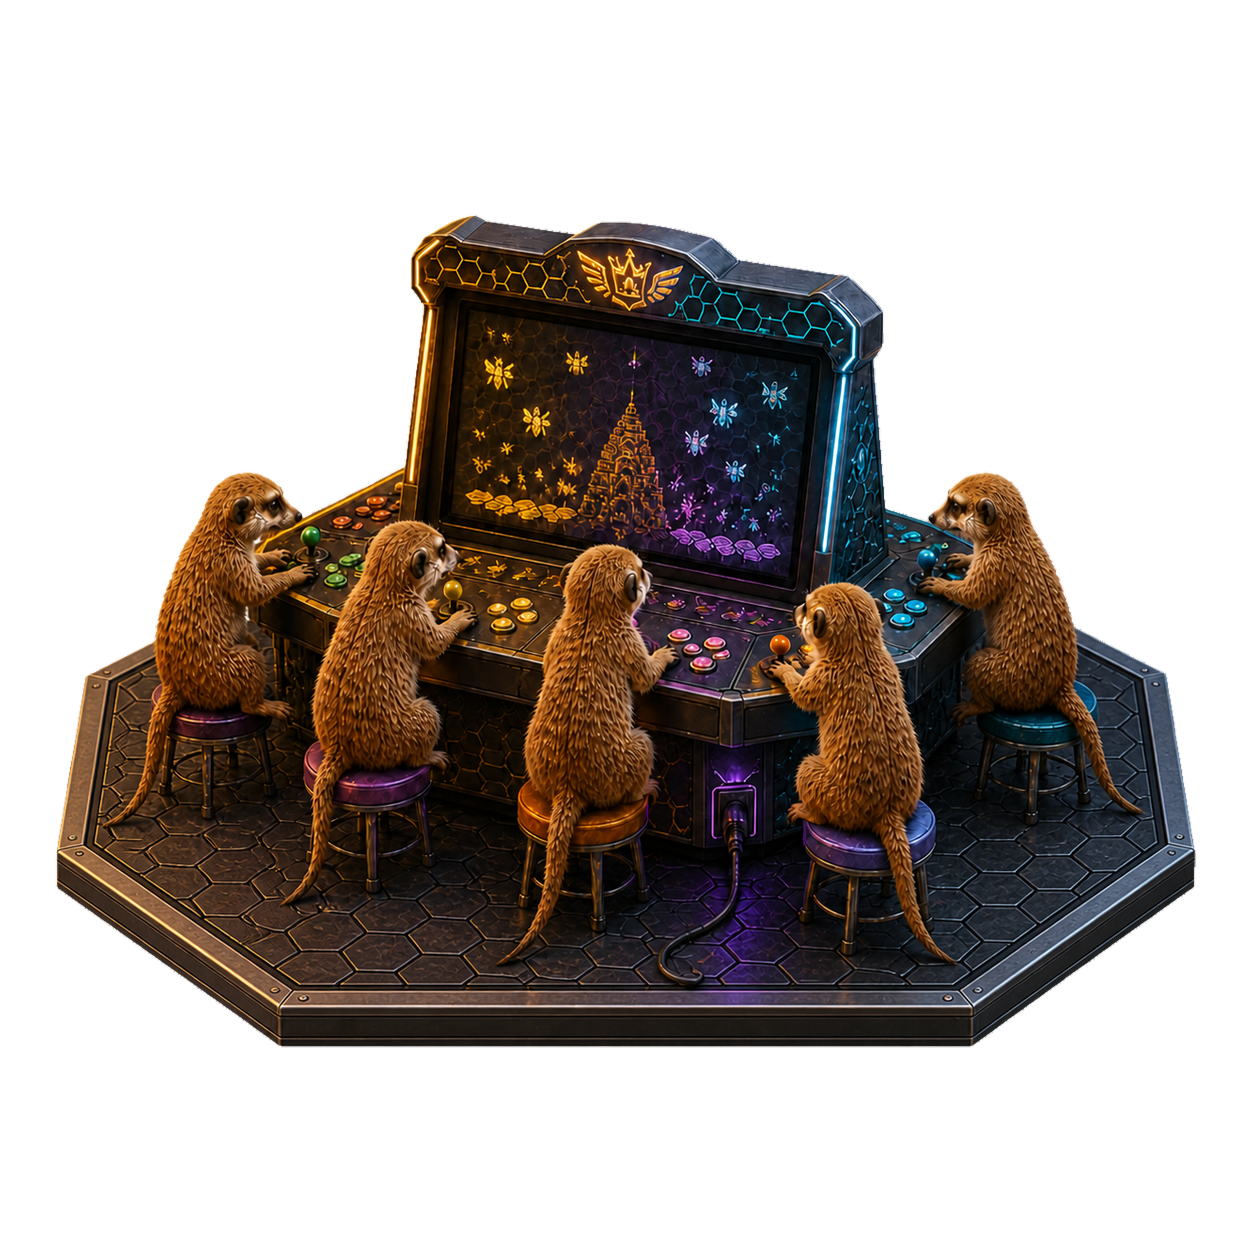
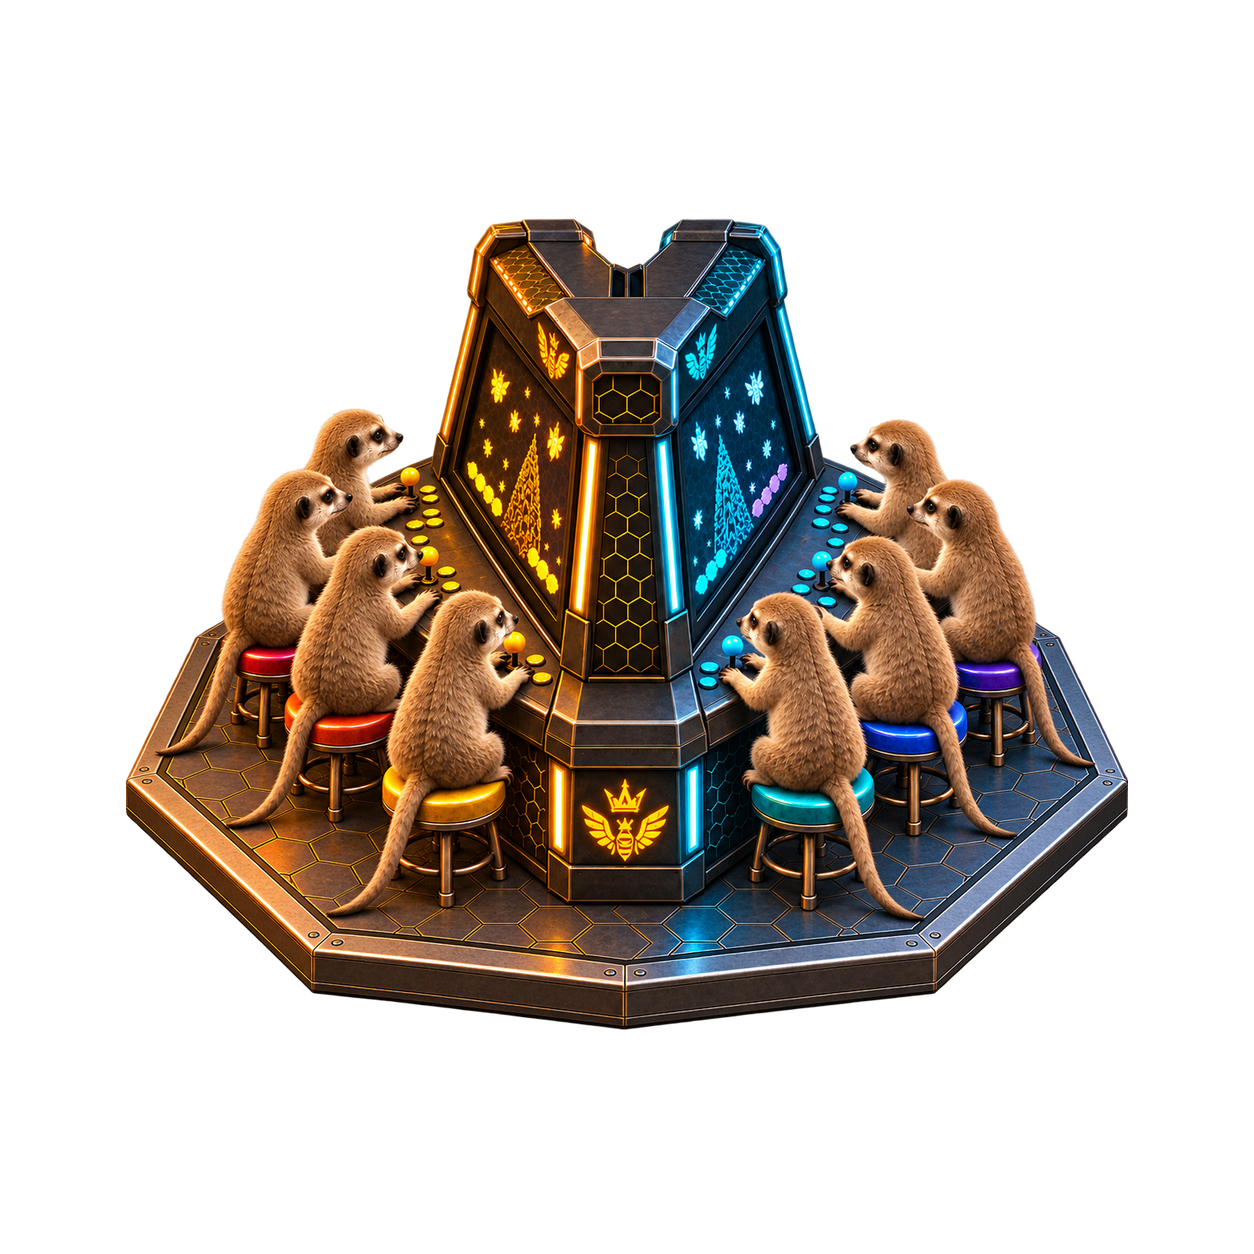
Explain waiting requirements and replace Arcade artwork (#35)
* Explain unmet requirements after event confirmation

* Replace Arcade artwork with approved eight-player scene

* Pin approved Arcade bytes in public source export

* Match long notice text by accessibility label

diff --git a/invitee-web/app/page.tsx b/invitee-web/app/page.tsx
@@ -1054,6 +1054,7 @@ export function HerdApp() {
   const [replyPreviewOutcome, setReplyPreviewOutcome] = useState<"confirmed" | "not-confirmed">("confirmed");
   const [successPreviewOutcome, setSuccessPreviewOutcome] = useState<"confirmed" | "not-confirmed">("confirmed");
   const [savedReplyFingerprint, setSavedReplyFingerprint] = useState<string | null>(null);
+  const [savedReplyChoice, setSavedReplyChoice] = useState<Reply>(null);
   const [events, setEvents] = useState<ApiEvent[]>([]);
   const [lastEventsUpdatedAt, setLastEventsUpdatedAt] = useState<number | null>(null);
   const [eventsRefreshPending, setEventsRefreshPending] = useState(false);
@@ -1151,6 +1152,7 @@ export function HerdApp() {
     setEvents([]);
     setSelectedEvent(null);
     setCurrentUser(null);
+    setSavedReplyChoice(null);
     setInviteMetadata(null);
     setPrivateResponseState("idle");
     setProfileName("");
@@ -1447,6 +1449,7 @@ export function HerdApp() {
         const draft = body.ballot;
         if (!draft) {
           setSavedReplyFingerprint(null);
+          setSavedReplyChoice(null);
           setReply(null);
           setMinimum(selectedEvent.minimumParticipants);
           setConditionGroups([]);
@@ -1468,6 +1471,7 @@ export function HerdApp() {
         setMinimum(savedMinimum);
         setConditionGroups(savedConditionGroups);
         setSavedReplyFingerprint(fingerprint);
+        setSavedReplyChoice(savedReply);
         setPrivateResponseState("ready");
       } catch (error) {
         if (cancelled) return;
@@ -1672,6 +1676,7 @@ export function HerdApp() {
     setMinimum(event.minimumParticipants);
     setReply(null);
     setSavedReplyFingerprint(null);
+    setSavedReplyChoice(null);
     setConditionGroups([]);
     setInviteMetadata(null);
     setReplyError("");
@@ -2383,6 +2388,7 @@ export function HerdApp() {
           : event
       ));
       setReply(submittedReply);
+      setSavedReplyChoice(submittedReply);
       setSavedReplyFingerprint(
         replyDraftFingerprint(
           submittedReply,
@@ -3117,6 +3123,17 @@ export function HerdApp() {
                   </button>
                 </div>
               </section>
+
+              {activeEvent.role === "invitee"
+                && activeEvent.resolution?.status === "confirmed"
+                && (activeEvent.hasBallot || activeEvent.hasResponse)
+                && savedReplyChoice === "yes"
+                && !replyLocked ? (
+                  <section className="privacy-callout unmet-requirements-callout" data-testid="unmet-requirements-callout">
+                    <h3>{INVITATION_EXPERIENCE.unmetRequirementsCallout.title}</h3>
+                    <p>{INVITATION_EXPERIENCE.unmetRequirementsCallout.body}</p>
+                  </section>
+                ) : null}
 
               {activeEvent.role !== "host" ? <section className="reply-section">
                 <div className="section-heading">

diff --git a/HerdHost/HomeView.swift b/HerdHost/HomeView.swift
@@ -1624,6 +1624,7 @@ private struct InvitationDetailView: View {
     @State private var privateMinimumParticipants = 2
     @State private var privateRequiredGroups: [RSVPConditionGroup] = []
     @State private var savedPrivateDraft: PrivateResponseDraft?
+    @State private var savedReplyAwaitsRequirements = false
     @State private var showsCollapsedEventTitle = false
     @State private var showsEventDeletionConfirmation = false
     @State private var eventBeingEdited: HerdEvent?
@@ -1665,6 +1666,13 @@ private struct InvitationDetailView: View {
                                     attendeeDetails(event)
                                 }
                                 privacyCallout(event)
+                                if event.role == .invitee,
+                                   event.resolution?.status == .confirmed,
+                                   event.hasBallot || event.hasResponse,
+                                   savedReplyAwaitsRequirements,
+                                   event.canChangeReply() {
+                                    unmetRequirementsCallout
+                                }
                             }
                             .padding(.top, -4)
 
@@ -1890,6 +1898,12 @@ private struct InvitationDetailView: View {
         .task(id: eventID) {
             guard let inviteToken = event?.inviteToken else { return }
             _ = await store.openInvitation(inviteToken: inviteToken)
+        }
+        .task(id: event) {
+            guard let event else { return }
+            let awaitsRequirements = await store.savedReplyAwaitsRequirements(for: event)
+            guard !Task.isCancelled else { return }
+            savedReplyAwaitsRequirements = awaitsRequirements
         }
         .overlay(alignment: .bottom) {
             if confirmedReplyNoticeID != nil || addressCopiedNoticeID != nil {
@@ -2273,6 +2287,20 @@ private struct InvitationDetailView: View {
         }
         .buttonStyle(PlainPressButtonStyle())
         .wireframeCard()
+    }
+
+    private var unmetRequirementsCallout: some View {
+        VStack(alignment: .leading, spacing: 8) {
+            Text(invitationExperience.unmetRequirementsCallout.title)
+                .font(.headline)
+            Text(invitationExperience.unmetRequirementsCallout.body)
+                .font(.subheadline)
+                .foregroundStyle(.secondary)
+                .fixedSize(horizontal: false, vertical: true)
+        }
+        .frame(maxWidth: .infinity, alignment: .leading)
+        .wireframeCard()
+        .accessibilityIdentifier("unmet-requirements-callout")
     }
 
     private func replyCard(_ event: HerdEvent) -> some View {

diff --git a/HerdHostUITests/HerdHostUITests.swift b/HerdHostUITests/HerdHostUITests.swift
@@ -1003,9 +1003,20 @@ final class HerdHostUITests: XCTestCase {
         app.launchArguments = ["--herd-ui-testing", "invitee-home"]
         app.launchEnvironment["HERD_UI_TEST_LOCAL_ORIGIN"] = origin
         app.launch()
-        signIn(app, phoneNumber: "1")
+        signIn(app, phoneNumber: "2")
         XCTAssertTrue(app.staticTexts[title].waitForExistence(timeout: 15))
         app.staticTexts[title].tap()
+        let unmetNotice = app.staticTexts["You’re not committed yet"]
+        scrollToMakeHittable(unmetNotice, in: app.scrollViews.firstMatch)
+        XCTAssertTrue(unmetNotice.exists)
+        XCTAssertTrue(app.staticTexts.matching(NSPredicate(
+            format: "label == %@",
+            "The event is confirmed, but your requirements haven’t been met yet. If they’re met, your status will automatically change from “Can’t commit” to “Going.”"
+        )).firstMatch.exists)
+        let noticeScreenshot = XCTAttachment(screenshot: app.screenshot())
+        noticeScreenshot.name = "unmet-requirements-card"
+        noticeScreenshot.lifetime = .keepAlways
+        add(noticeScreenshot)
         let guests = app.staticTexts["See the full guest list"]
         scrollToMakeHittable(guests, in: app.scrollViews.firstMatch)
         guests.tap()
@@ -1035,6 +1046,8 @@ final class HerdHostUITests: XCTestCase {
         screenshot.name = "confirmed-joining-live-observer"
         screenshot.lifetime = .keepAlways
         add(screenshot)
+        app.navigationBars.buttons.element(boundBy: 0).tap()
+        XCTAssertFalse(unmetNotice.exists)
     }
 
     func testConfirmedAttendeeStatusesStayInsideTheirRows() {

diff --git a/HerdHost/EventStore.swift b/HerdHost/EventStore.swift
@@ -793,6 +793,28 @@ final class EventStore {
         }
     }
 
+    func savedReplyAwaitsRequirements(for event: HerdEvent) async -> Bool {
+        guard let context = currentOperationContext,
+              event.role == .invitee,
+              event.resolution?.status == .confirmed,
+              event.hasBallot || event.hasResponse,
+              event.canChangeReply(),
+              let inviteToken = event.inviteToken else { return false }
+        do {
+            // Read only this account's reply without opening the private editor
+            // or retaining its conditions in the event cache.
+            let ballot = try await apiClient.fetchSimplifiedBallot(inviteToken: inviteToken)
+            try requireCurrentOperation(context)
+            try Task.checkCancellation()
+            return ballot?.response == .going
+        } catch APIError.unauthorized {
+            if operationIsCurrent(context) { handleUnauthorized() }
+            return false
+        } catch {
+            return false
+        }
+    }
+
     @discardableResult
     func unlockPrivateResponse(for event: HerdEvent) async -> Bool {
         guard let context = currentOperationContext else { return false }

diff --git a/HerdHost/HerdExperience.swift b/HerdHost/HerdExperience.swift
@@ -198,6 +198,11 @@ struct HerdExperience: Decodable {
             let action: String
         }
 
+        struct UnmetRequirementsCallout: Decodable {
+            let title: String
+            let body: String
+        }
+
         struct EventActions: Decodable {
             let moreLabel: String
             let editButton: String
@@ -235,6 +240,7 @@ struct HerdExperience: Decodable {
         let metrics: Metrics
         let attendeeEntry: AttendeeEntry
         let privacyCallout: PrivacyCallout
+        let unmetRequirementsCallout: UnmetRequirementsCallout
         let eventActions: EventActions
         let resolution: Resolution
         let unavailableTitle: String

diff --git a/invitee-web/app/globals.css b/invitee-web/app/globals.css
@@ -1225,6 +1225,14 @@ summary:focus-visible {
   font-size: 12px;
 }
 
+.unmet-requirements-callout p:not(.eyebrow) {
+  display: block;
+  overflow: visible;
+  -webkit-line-clamp: unset;
+  font-size: 15px;
+  line-height: 1.5;
+}
+
 .reply-section {
   padding: 32px 0 10px;
   border: 0;
